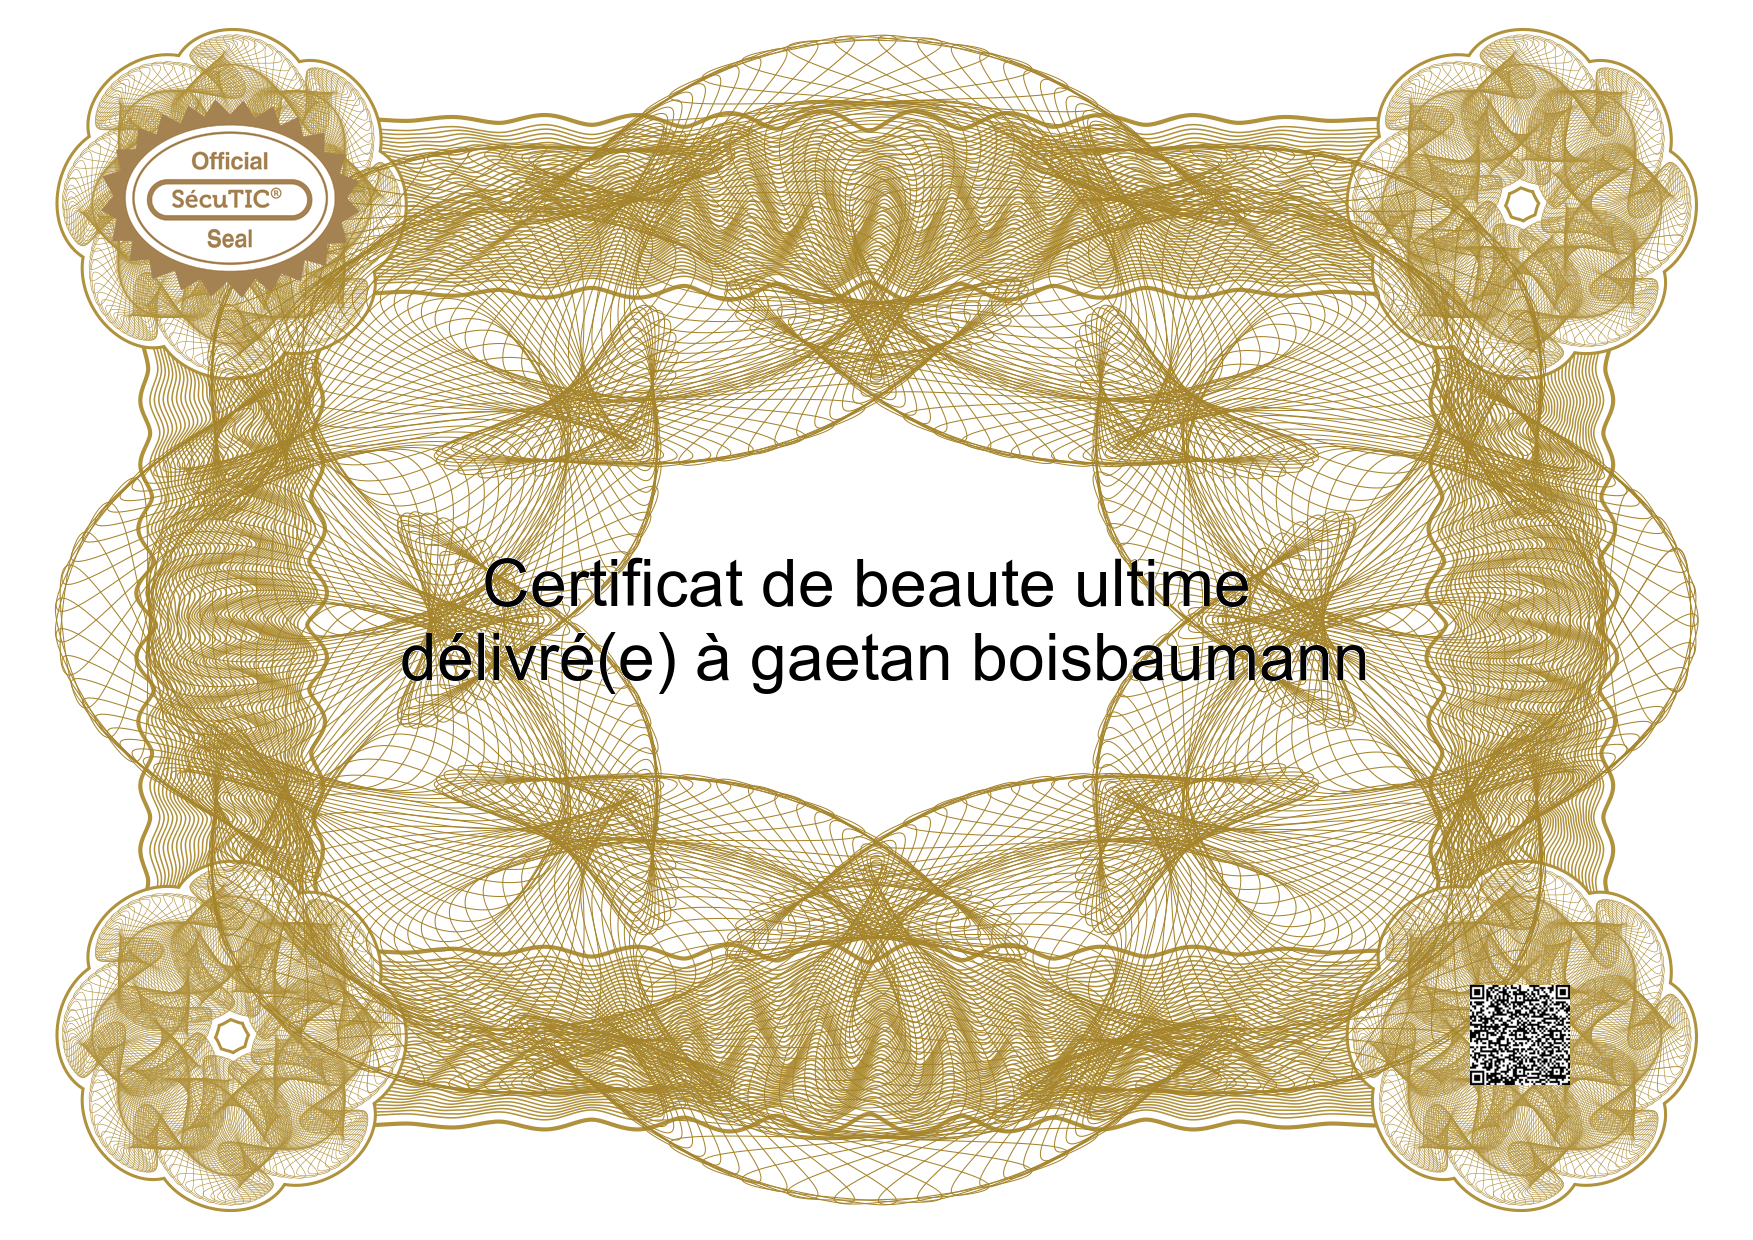
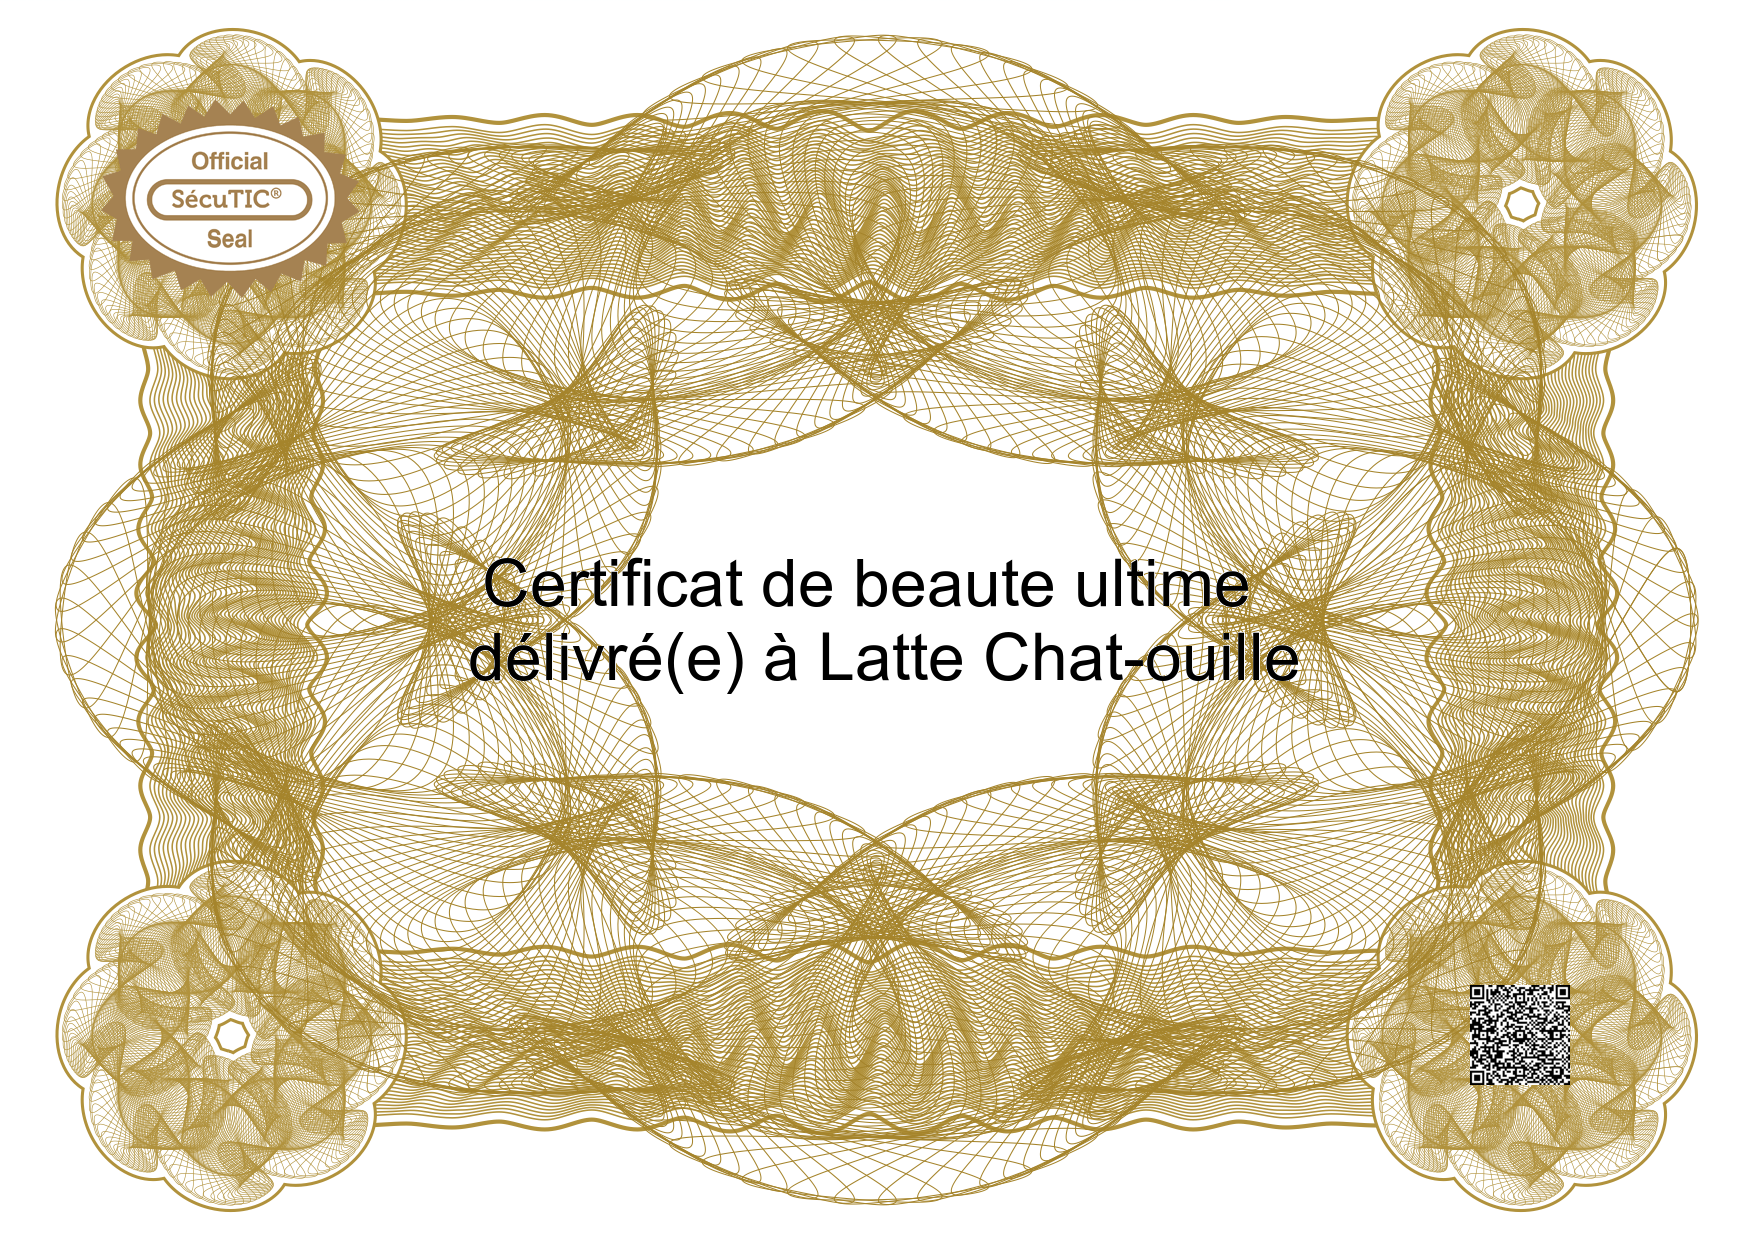
add http connexion between front and back

Changed region(s): [[0.2156, 0.4903, 0.8009, 0.5516], [0.8317, 0.7968, 0.8933, 0.8887]]

diff --git a/src/serveur_frontal.py b/src/serveur_frontal.py
@@ -9,15 +9,16 @@ import re
 import sys
 import datetime
 from time import sleep
+import subprocess
 
 class ServeurFrontal:
-    def __init__(self, serveur_applicatif: ServeurApplicatif):
+    def __init__(self):
         self.app = Bottle()
-        self.serveur_applicatif: ServeurApplicatif = serveur_applicatif
+        #self.serveur_applicatif: ServeurApplicatif = serveur_applicatif
         self.setup_routes()
 
     def setup_routes(self):
-        self.app.route('/fond', callback=self.recuperer_fond)
+        #self.app.route('/fond', callback=self.recuperer_fond)
         self.app.route('/verification', method='POST', callback=self.verification)
         self.app.route('/creation', method='POST', callback=self.creation)
 
@@ -51,18 +52,19 @@ class ServeurFrontal:
         cookies = [c for c in cookieProcessor.cookiejar if c.name=='lemonldap']
         return cookies
 
-
-    def recuperer_fond(self):
-        response.set_header('Content-type', 'image/png')
-        
-        descripteur_fichier = open('./src/img/attestation_stegano.png','rb')
-        contenu_fichier = descripteur_fichier.read()
-        descripteur_fichier.close()
-        return contenu_fichier
-
-    
-    @route('/verification', method='POST')
     def verification(self):
+        contenu_image_path = request.forms.get('image_path')
+        print("/"*25)
+        print(f"::: Image path: {contenu_image_path};")
+        print("/"*25)
+
+        commande_curl = subprocess.Popen(
+            f"curl -v -F image=@{contenu_image_path} --cacert ./src/cert/certCertifPlus/ecc.ca.cert.pem http://localhost:1234/faire_verification",
+            shell=True, stdout=subprocess.PIPE)
+        (resultat, _) = commande_curl.communicate()
+        print("Resultat", resultat,": Erreur", _)
+        return resultat
+        """
         try:
             contenu_image = request.files.get('image')
             print("Contenu image:", contenu_image)
@@ -82,16 +84,35 @@ class ServeurFrontal:
         except Exception as e:
             response.status = 500
             return f"Erreur lors de la vérification: {str(e)}"
+        """
 
 
     #@route('/creation', method='POST')
     def creation(self):
         # Récupération des informations
         contenu_email = request.forms.get('email')
-        nom_etudiant: str = contenu_email.split(".")[0]
-        prenom_etudiant: str = contenu_email.split(".")[1].split("@")[0]
         contenu_intitulé_certification = request.forms.get('intitule_certif')
         contenu_mot_de_passe = request.forms.get('mdp')
+
+        print(f"::: Email: {contenu_email}; Intitulé Certification: {contenu_intitulé_certification}; Mot de passe: {contenu_mot_de_passe}")
+        
+        commande_curl = subprocess.Popen(
+            f"curl -v -X POST -d 'email={contenu_email}' -d 'intitule_certif={contenu_intitulé_certification}' -d 'mdp={contenu_mot_de_passe}' --cacert ./src/cert/certCertifPlus/ecc.ca.cert.pem http://localhost:1234/faire_creation",
+            shell=True, stdout=subprocess.PIPE)
+        (resultat, _) = commande_curl.communicate()
+        # print(resultat, _)
+        # sleep(5)
+        
+        if resultat.decode() == "Mot de passe ou nom de l'utilisateur incorrect":
+            return None
+        
+        commande_curl = subprocess.Popen(
+            f'curl -v -X GET --cacert ./src/cert/certCertifPlus/ecc.ca.cert.pem http://localhost:1234/recuperation_fond',
+            shell=True, stdout=subprocess.PIPE)
+        (resultat, _) = commande_curl.communicate()
+
+        return resultat
+        """
         etudiant_actuel: Etudiant = Etudiant(nom_etudiant, prenom_etudiant, Certificat(contenu_intitulé_certification))
 
         # Le SSO ne fonctionne plus depuis le 2FA (Top !!)
@@ -106,12 +127,10 @@ class ServeurFrontal:
             response.set_header('Content-type', 'text/plain')
             return "ok!"
         
-        return "Mot de passe ou nom de l'utilisateur incorrecte"
+        return "Mot de passe ou nom de l'utilisateur incorrect"
         
         self.serveur_applicatif.creation_certificat(etudiant_actuel)
-
-    def extraire_intitule_du_bloc(self, bloc_info):
-        return "" #TODO voir si on dois extraire les infos et is oui i faut un separateur
+        """
 
 
 if __name__ == "__main__":

diff --git a/src/communication_serveur_applicatif.py b/src/communication_serveur_applicatif.py
@@ -1,0 +1,81 @@
+from serveur_applicatif import ServeurApplicatif
+from etudiant import Etudiant
+from certificat import Certificat
+from bottle import Bottle, route, run, template, request, response
+
+class CommunicationServeurApplicatif:
+    def __init__(self, serveur_applicatif: ServeurApplicatif):
+        self.app = Bottle()
+        self.serveur_applicatif: ServeurApplicatif = serveur_applicatif
+        self.setup_routes()
+
+
+    def setup_routes(self):
+        self.app.route('/recuperation_fond', callback=self.recuperer_fond)
+        self.app.route('/faire_verification', method='POST', callback=self.faire_verification)
+        self.app.route('/faire_creation', method='POST', callback=self.faire_creation)
+
+
+    def demarrer(self):
+        self.app.run(host='127.0.0.1',port=1234,debug=True)
+
+    
+    def recuperer_fond(self):
+        response.set_header('Content-type', 'image/png')
+        
+        descripteur_fichier = open('./src/img/attestation_stegano.png','rb')
+        contenu_fichier = descripteur_fichier.read()
+        descripteur_fichier.close()
+        return contenu_fichier
+
+    
+    def faire_verification(self):
+        try:
+            contenu_image = request.files.get('image')
+            print("*"*25)
+            print("--- Contenu image:", contenu_image)
+            print("*"*25)
+            chemin_image = './attestation_a_verifier.png'
+            contenu_image.save(chemin_image, overwrite=True)
+            
+            resultat = self.serveur_applicatif.verifier_attestation(chemin_image)
+            print("Resultat:", resultat)
+            response.set_header('Content-type', 'text/plain')
+            if resultat:
+                response.status = 200
+                return "Certificat valide"
+            else:
+                response.status = 403
+                return "Certificat invalide"
+                
+        except Exception as e:
+            response.status = 500
+            return f"Erreur lors de la vérification: {str(e)}"
+
+
+    def faire_creation(self):
+        # Récupération des informations
+        contenu_email = request.forms.get('email')
+        nom_etudiant: str = contenu_email.split(".")[0]
+        prenom_etudiant: str = contenu_email.split(".")[1].split("@")[0]
+        contenu_intitulé_certification = request.forms.get('intitule_certif')
+        contenu_mot_de_passe = request.forms.get('mdp')
+        etudiant_actuel: Etudiant = Etudiant(nom_etudiant, prenom_etudiant, Certificat(contenu_intitulé_certification))
+        print(f"--- Nom: {etudiant_actuel.nom}; Prénom: {etudiant_actuel.prenom}; Certificat: {etudiant_actuel.certificat.intitule}")
+
+        # Le SSO ne fonctionne plus depuis le 2FA (Top !!) - Sauf avec eduroam
+        """
+        # Vérification de l'étudiant avec le SSO de l'université
+        cookies: list = self.contacter_sso_universite(contenu_email, contenu_mot_de_passe)
+        if cookies:
+            # Intéraction avec le serveur d'application
+            self.serveur_applicatif.creation_certificat(etudiant_actuel)
+
+            # Réponse
+            response.set_header('Content-type', 'text/plain')
+            return "ok!"
+        
+        return "Mot de passe ou nom de l'utilisateur incorrect"
+        """
+        self.serveur_applicatif.creation_certificat(etudiant_actuel)
+        return "ok!"

diff --git a/src/etudiant.py b/src/etudiant.py
@@ -22,19 +22,25 @@ class Etudiant:
         # TODO change to HTTPS (Don't work with https for POST but work for GET, why???)
         # Testing with HTTP for POST so far, to setup everything for the main.py file
         commande_curl = subprocess.Popen(
+            f"curl -v -X POST -d 'email={data['email']}' -d 'intitule_certif={data['intitule_certif']}' -d 'mdp={data['mdp']}' --cacert ./src/cert/certCertifPlus/ecc.ca.cert.pem https://localhost:9000/creation",
+            shell=True, stdout=subprocess.PIPE)
+        (resultat, _) = commande_curl.communicate()
+        """
+        commande_curl = subprocess.Popen(
             f"curl -v -X POST -d 'email={data['email']}' -d 'intitule_certif={data['intitule_certif']}' -d 'mdp={data['mdp']}' --cacert ./src/cert/certCertifPlus/ecc.ca.cert.pem http://localhost:8080/creation",
             shell=True, stdout=subprocess.PIPE)
         (resultat, _) = commande_curl.communicate()
         # print(resultat, _)
         # sleep(5)
         
-        if resultat.decode() == "Mot de passe ou nom de l'utilisateur incorrecte":
+        if resultat.decode() == "Mot de passe ou nom de l'utilisateur incorrect":
             return None
         
         commande_curl = subprocess.Popen(
             f'curl -v -X GET --cacert ./src/cert/certCertifPlus/ecc.ca.cert.pem https://localhost:9000/fond',
             shell=True, stdout=subprocess.PIPE)
         (resultat, _) = commande_curl.communicate()
+        """
         image = Image.open(BytesIO(resultat))
         return image
 

diff --git a/src/main.py b/src/main.py
@@ -1,5 +1,6 @@
 from serveur_frontal import ServeurFrontal
 from serveur_applicatif import ServeurApplicatif
+from communication_serveur_applicatif import CommunicationServeurApplicatif
 from steganographie import Steganographie
 from etudiant import Etudiant
 from certificat import Certificat
@@ -12,19 +13,28 @@ from time import sleep
 
 steganographie: Steganographie = Steganographie()
 serveur_applicatif: ServeurApplicatif = ServeurApplicatif(steganographie, "TODO supprimer ?")
-serveur_frontal: ServeurFrontal = ServeurFrontal(serveur_applicatif)
+communication_serveur_applicatif: CommunicationServeurApplicatif = CommunicationServeurApplicatif(serveur_applicatif)
+serveur_frontal: ServeurFrontal = ServeurFrontal()
 etudiant: Etudiant = Etudiant("Chat-ouille", "Latte", Certificat("Certificat de beaute ultime"))
 
 t1 = Thread(target = serveur_frontal.demarrer)
+t2 = Thread(target = communication_serveur_applicatif.demarrer)
 # Run on another terminal: # socat openssl-listen:9000,fork,cert=./src/cert/certCertifPlus/bundle_serveur.pem,cafile=./src/cert/certCertifPlus/ecc.ca.cert.pem,verify=0 tcp:127.0.0.1:8080
 
 t1.start()
+sleep(1)
+t2.start()
 sleep(1)
 input("Commencer ?")
 
 certificat = etudiant.demander_certificat("TODO")
 print(certificat)
 certificat.save("test.png")
+
+print("="*25)
+print("="*25)
+print("="*25)
+
 #print("eza", certificat.filename)
 employeur: Employeur = Employeur("test.png")
-print(employeur.verifier_certificat())
+print("Certificat valide:", employeur.verifier_certificat())

diff --git a/src/employeur.py b/src/employeur.py
@@ -19,9 +19,20 @@ class Employeur:
         # TODO change to HTTPS (Don't work with https for POST but work for GET, why???)
         # Testing with HTTP for POST so far, to setup everything for the main.py file
         # -F "image=@/home/user1/Desktop/test.jpg"
+        """
         commande_curl = subprocess.Popen(
-            f"curl -v -F image=@{self.certificat_path} --cacert ./src/cert/certCertifPlus/ecc.ca.cert.pem http://localhost:8080/verification",
+            f"curl -v -F image=@{self.certificat_path} --cacert ./src/cert/certCertifPlus/ecc.ca.cert.pem https://localhost:9000/verification",
             shell=True, stdout=subprocess.PIPE)
         (resultat, _) = commande_curl.communicate()
         print("Resultat", resultat,": Erreur", _)
+        """
+        print("$"*25)
+        print(self.certificat_path)
+        print("$"*25)
+
+        commande_curl = subprocess.Popen(
+            f"curl -v -X POST -d 'image_path={self.certificat_path}' --cacert ./src/cert/certCertifPlus/ecc.ca.cert.pem https://localhost:9000/verification",
+            shell=True, stdout=subprocess.PIPE)
+        (resultat, _) = commande_curl.communicate()
+        print("* Resultat:", resultat)
         return resultat.decode() == "Certificat valide"
